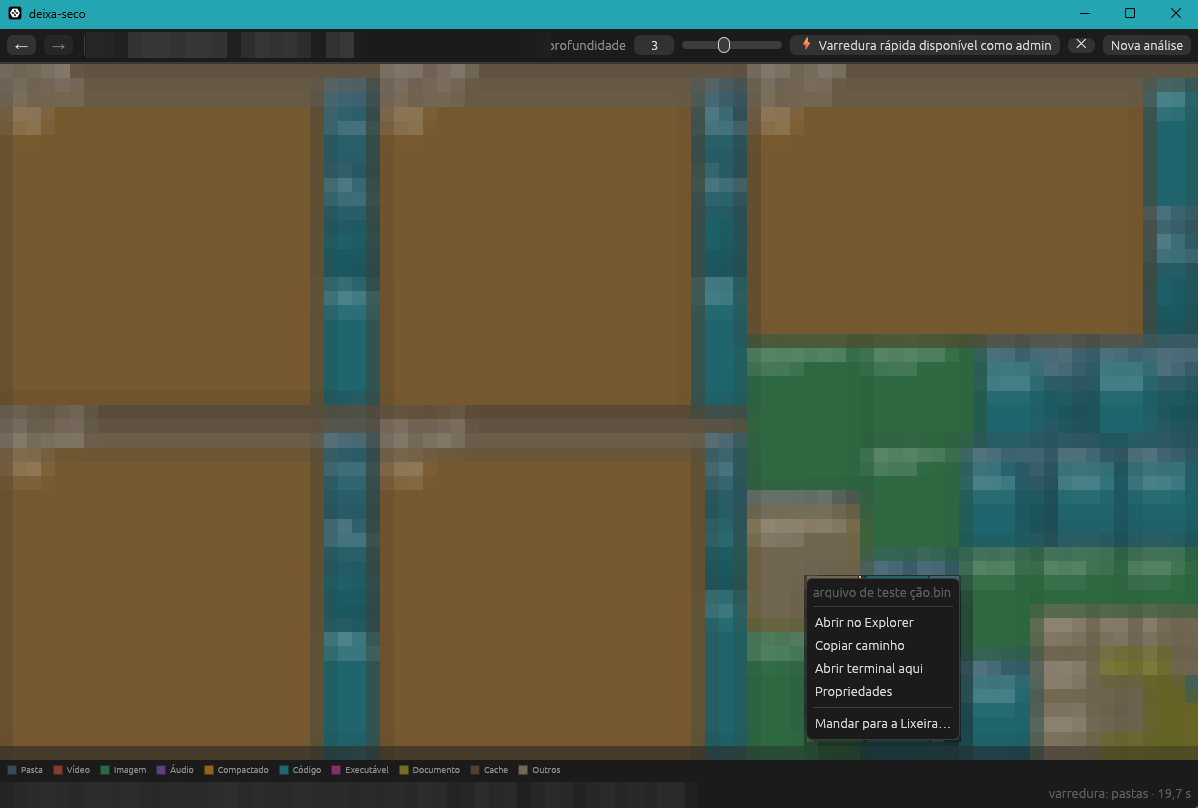
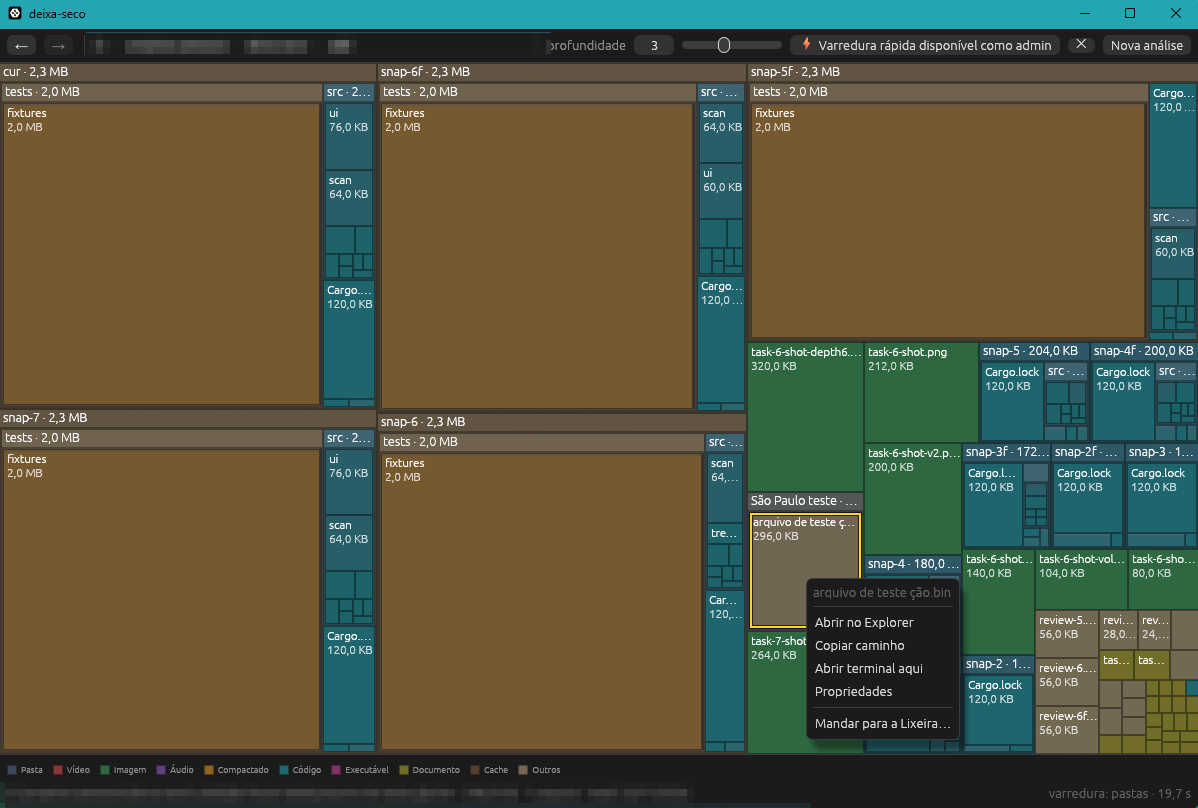
docs: pixelate only folder names and paths in screenshots

Changed region(s): [[0.0, 0.0309, 1.0, 0.9592], [0.278, 0.0309, 0.3088, 0.0619]]

diff --git a/README.md b/README.md
@@ -8,7 +8,7 @@
 
 ![Treemap of a drive, colored by the kind of content each folder holds](docs/images/map.png)
 
-*Screenshots have file names, paths and sizes blurred on purpose.*
+*Folder names and paths in the screenshots are pixelated on purpose.*
 
 ## Features
 
@@ -166,7 +166,7 @@ cargo test --release --test mft -- --ignored --nocapture
 | `src/insights/` | Suggestion rules: known caches, dev artifacts, programs, Store apps, virtualization |
 | `src/cleanup.rs` | Protection checks and execution of every cleanup action |
 | `src/ui/` | egui screens: drive list, map, navigation, search, suggestions, confirmation |
-| `docs/images/` | Screenshots used in this README (file and folder names are blurred) |
+| `docs/images/` | Screenshots used in this README (folder names and paths are pixelated) |
 
 ## Inspiration
 
